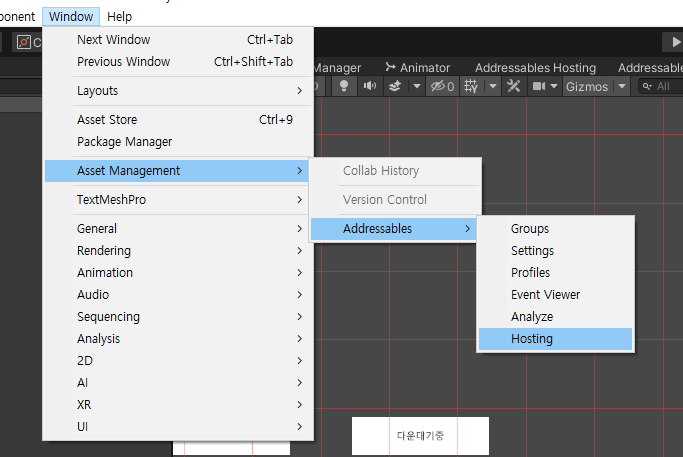
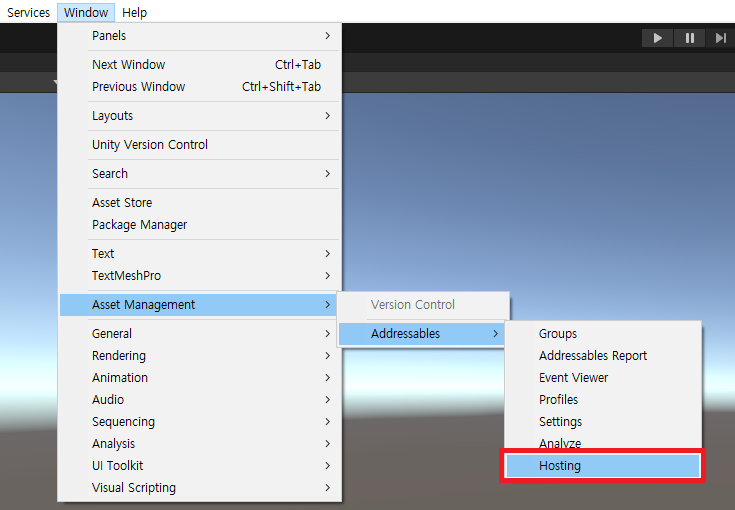
1

diff --git a/STUDY+RND/Unity3D/AssetBundles/[AssetBundle#3] Addressable Assets.md b/STUDY+RND/Unity3D/AssetBundles/[AssetBundle#3] Addressable Assets.md
@@ -668,7 +668,7 @@ https://blog.naver.com/cdw0424/221637763395
     - 다운로드 사이즈도 새로 잘 받아온다.
         > ![](https://github.com/icodes-studio/wiki/blob/main/STUDY%2BRND/Unity3D/AssetBundles/Assets/addr120.png)
         > - *참고: GetDownloadSizeAsync()는 한번 받은적이 있으면 0을 반환한다.*
-    - 다시 스폰을 눌러주면 큐브가 바뀐 것을 확인할 수 있다.
+    - 다시 스폰 해보면 큐브가 바뀐 것을 확인할 수 있다.
         > ![](https://github.com/icodes-studio/wiki/blob/main/STUDY%2BRND/Unity3D/AssetBundles/Assets/addr119.png)
 
 
@@ -678,18 +678,13 @@ https://blog.naver.com/cdw0424/221637763395
 
 *https://blog.naver.com/cdw0424/222090659316*
 
-- 유니티 로컬 Hosting 서비스
-    - 로컬 서버를 이용해서 테스트하는 워크플로우
-    - 아래 이미지와 같은 경로를 통해 호스팅 창을 열고
+- 유니티 로컬 호스팅 서비스 준비
+    - 메뉴 ***Window ‣ Asset Management ‣ Addressables ‣ Hosting*** 항목을 선택하여 호스팅 창을 연다.
         > ![](https://github.com/icodes-studio/wiki/blob/main/STUDY%2BRND/Unity3D/AssetBundles/Assets/addr123.png)
-    - 좌측 상단에 위치한 Create 버튼을 눌러서 Local Hosting을 클릭해 주자.
+    - 좌측 상단에 위치한 ***Create*** 버튼을 눌러서 ***Local Hosting*** 항목을 선택하자.
         > ![](https://github.com/icodes-studio/wiki/blob/main/STUDY%2BRND/Unity3D/AssetBundles/Assets/addr124.png)
-    - 그러면 오른쪽에 이런 화면이 나오는데
-        > ![](https://github.com/icodes-studio/wiki/blob/main/STUDY%2BRND/Unity3D/AssetBundles/Assets/addr125.jpg)
-    - 아무것도 건드리지 말고 그저 Enable만 체크해 주면 된다.
+    - ***Enable*** 필드를 체크하면 아이피 주소와 포트 번호가 나온다.
         > ![](https://github.com/icodes-studio/wiki/blob/main/STUDY%2BRND/Unity3D/AssetBundles/Assets/addr126.png)
-    - 그러면 이렇게 ip 주소와 포트 번호가 나오는데
-        > ![](https://github.com/icodes-studio/wiki/blob/main/STUDY%2BRND/Unity3D/AssetBundles/Assets/addr127.png)
     - 아이피와 포트 번호 각각 앞에 있는 변수에 우 클릭을 하고 키를 복사한 뒤 메모장에다가 붙여넣기를 하자.
         > ![](https://github.com/icodes-studio/wiki/blob/main/STUDY%2BRND/Unity3D/AssetBundles/Assets/addr128.png)
         > - [PrivateIpAddress]
